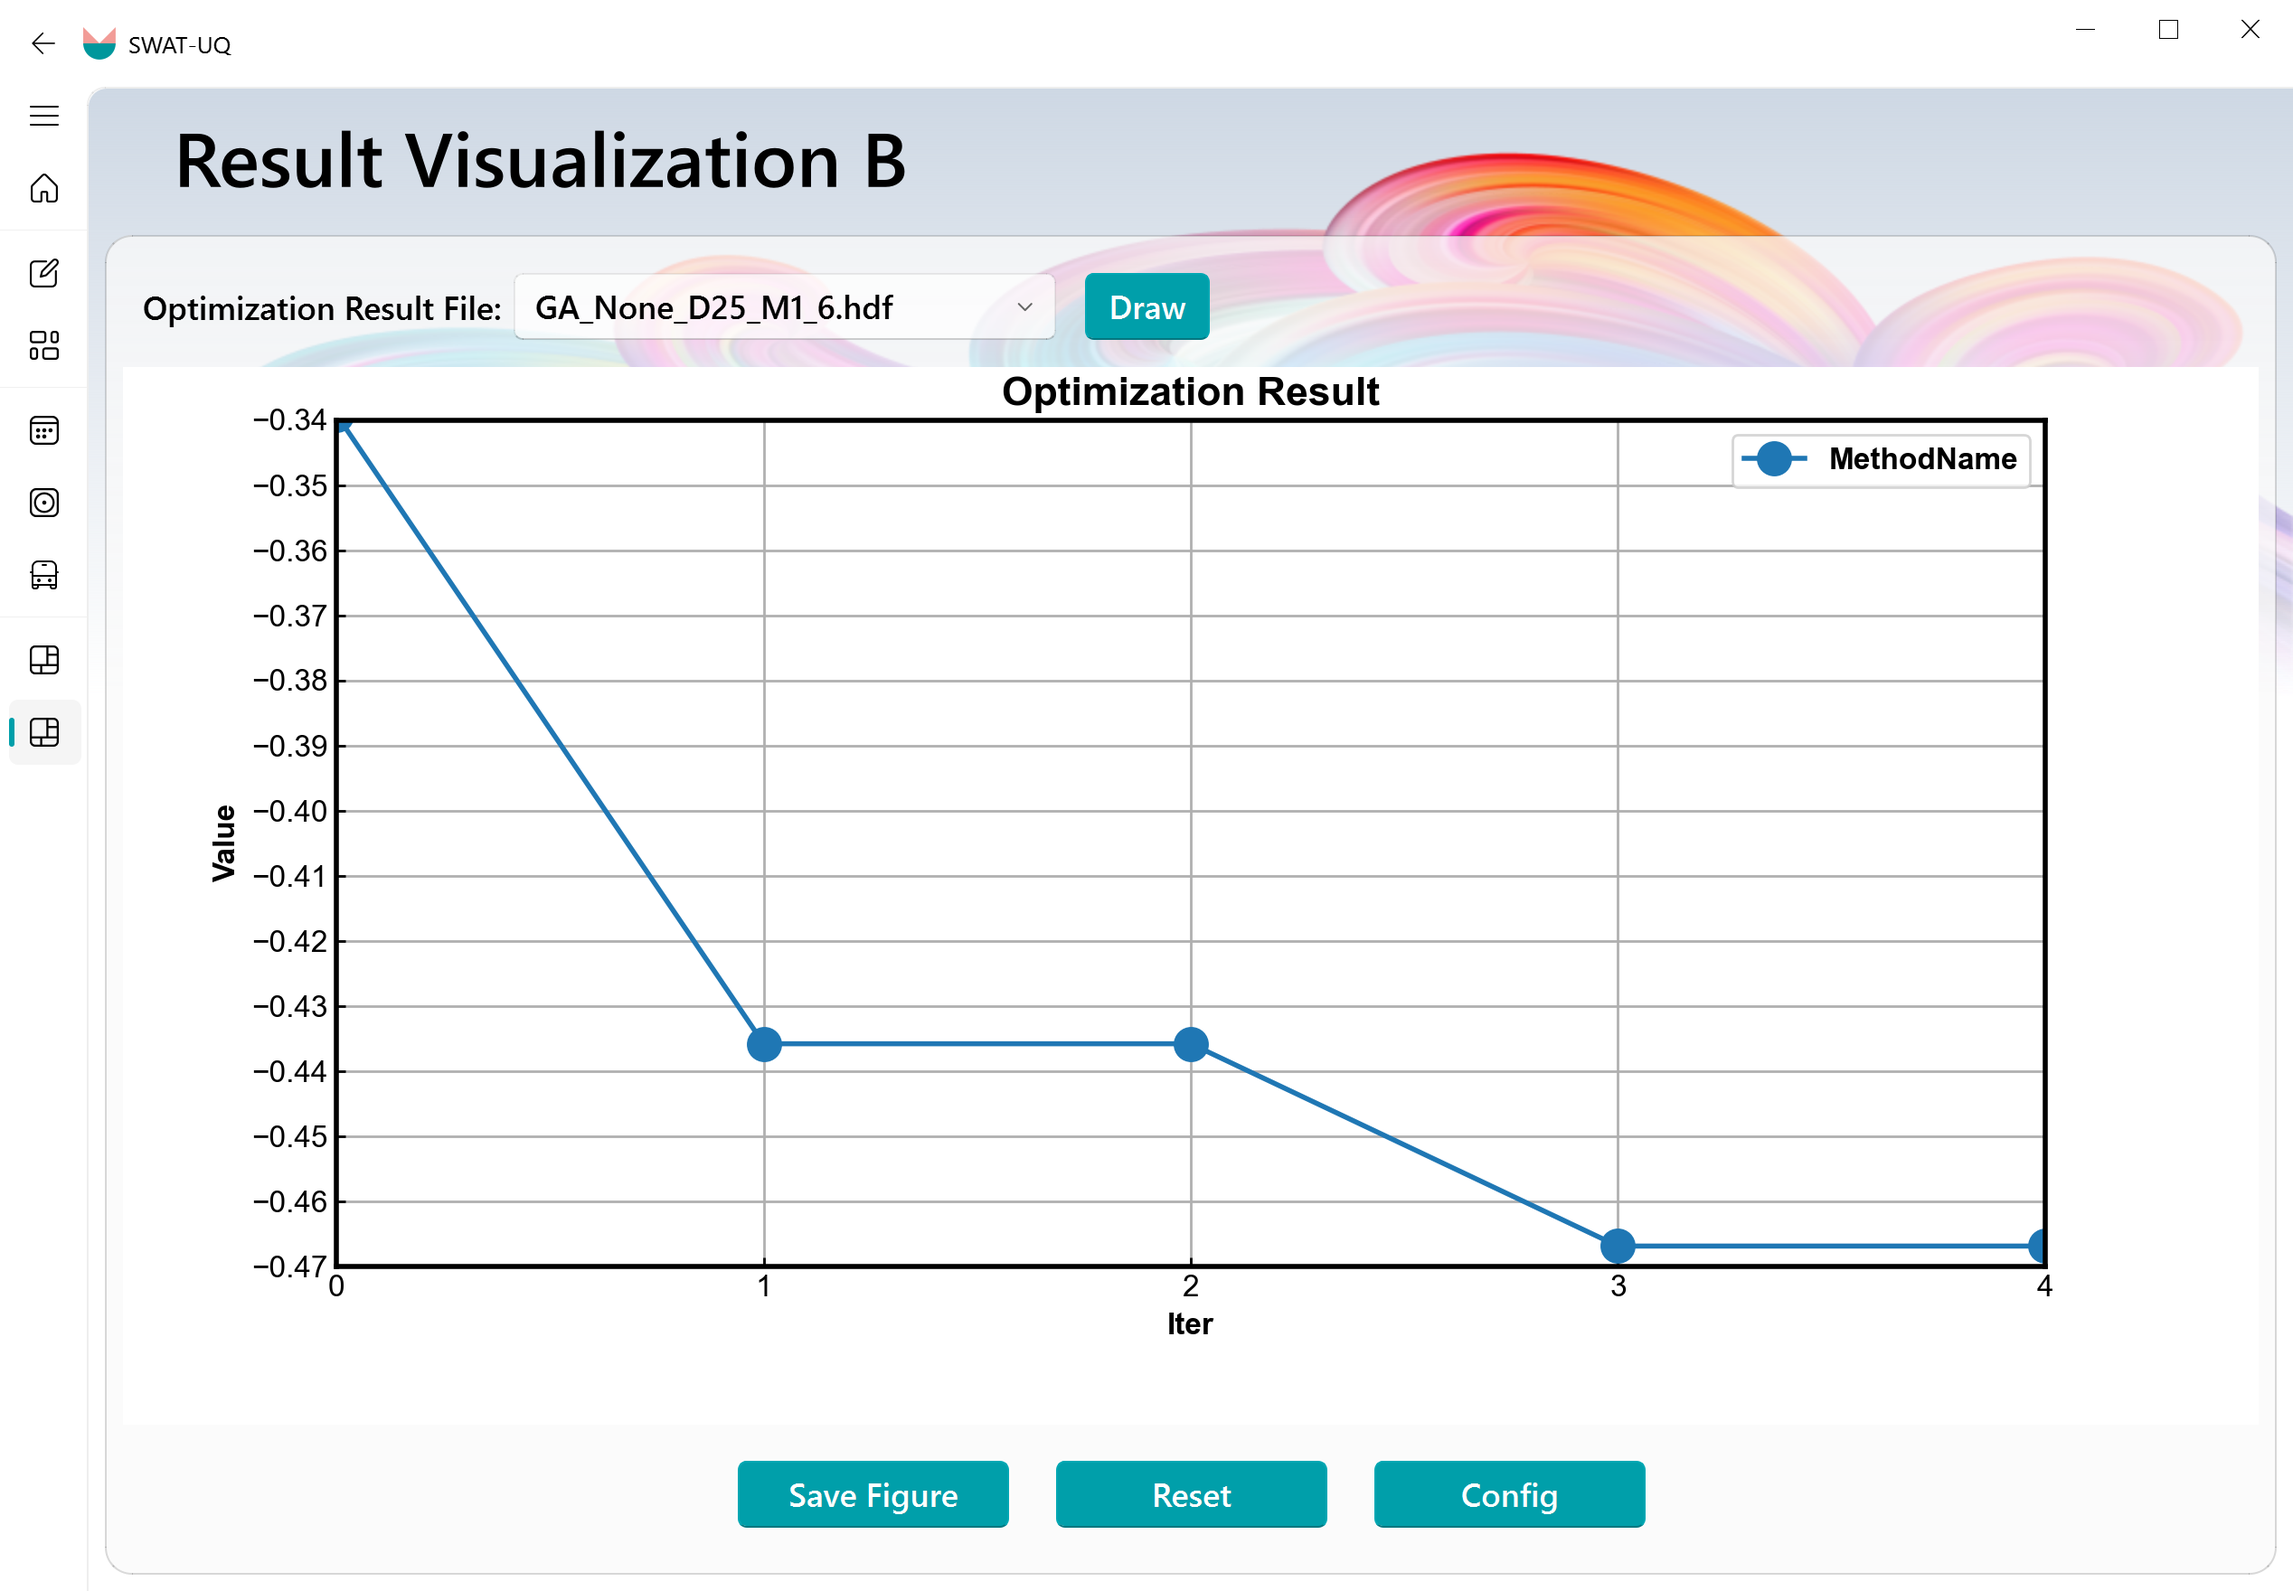
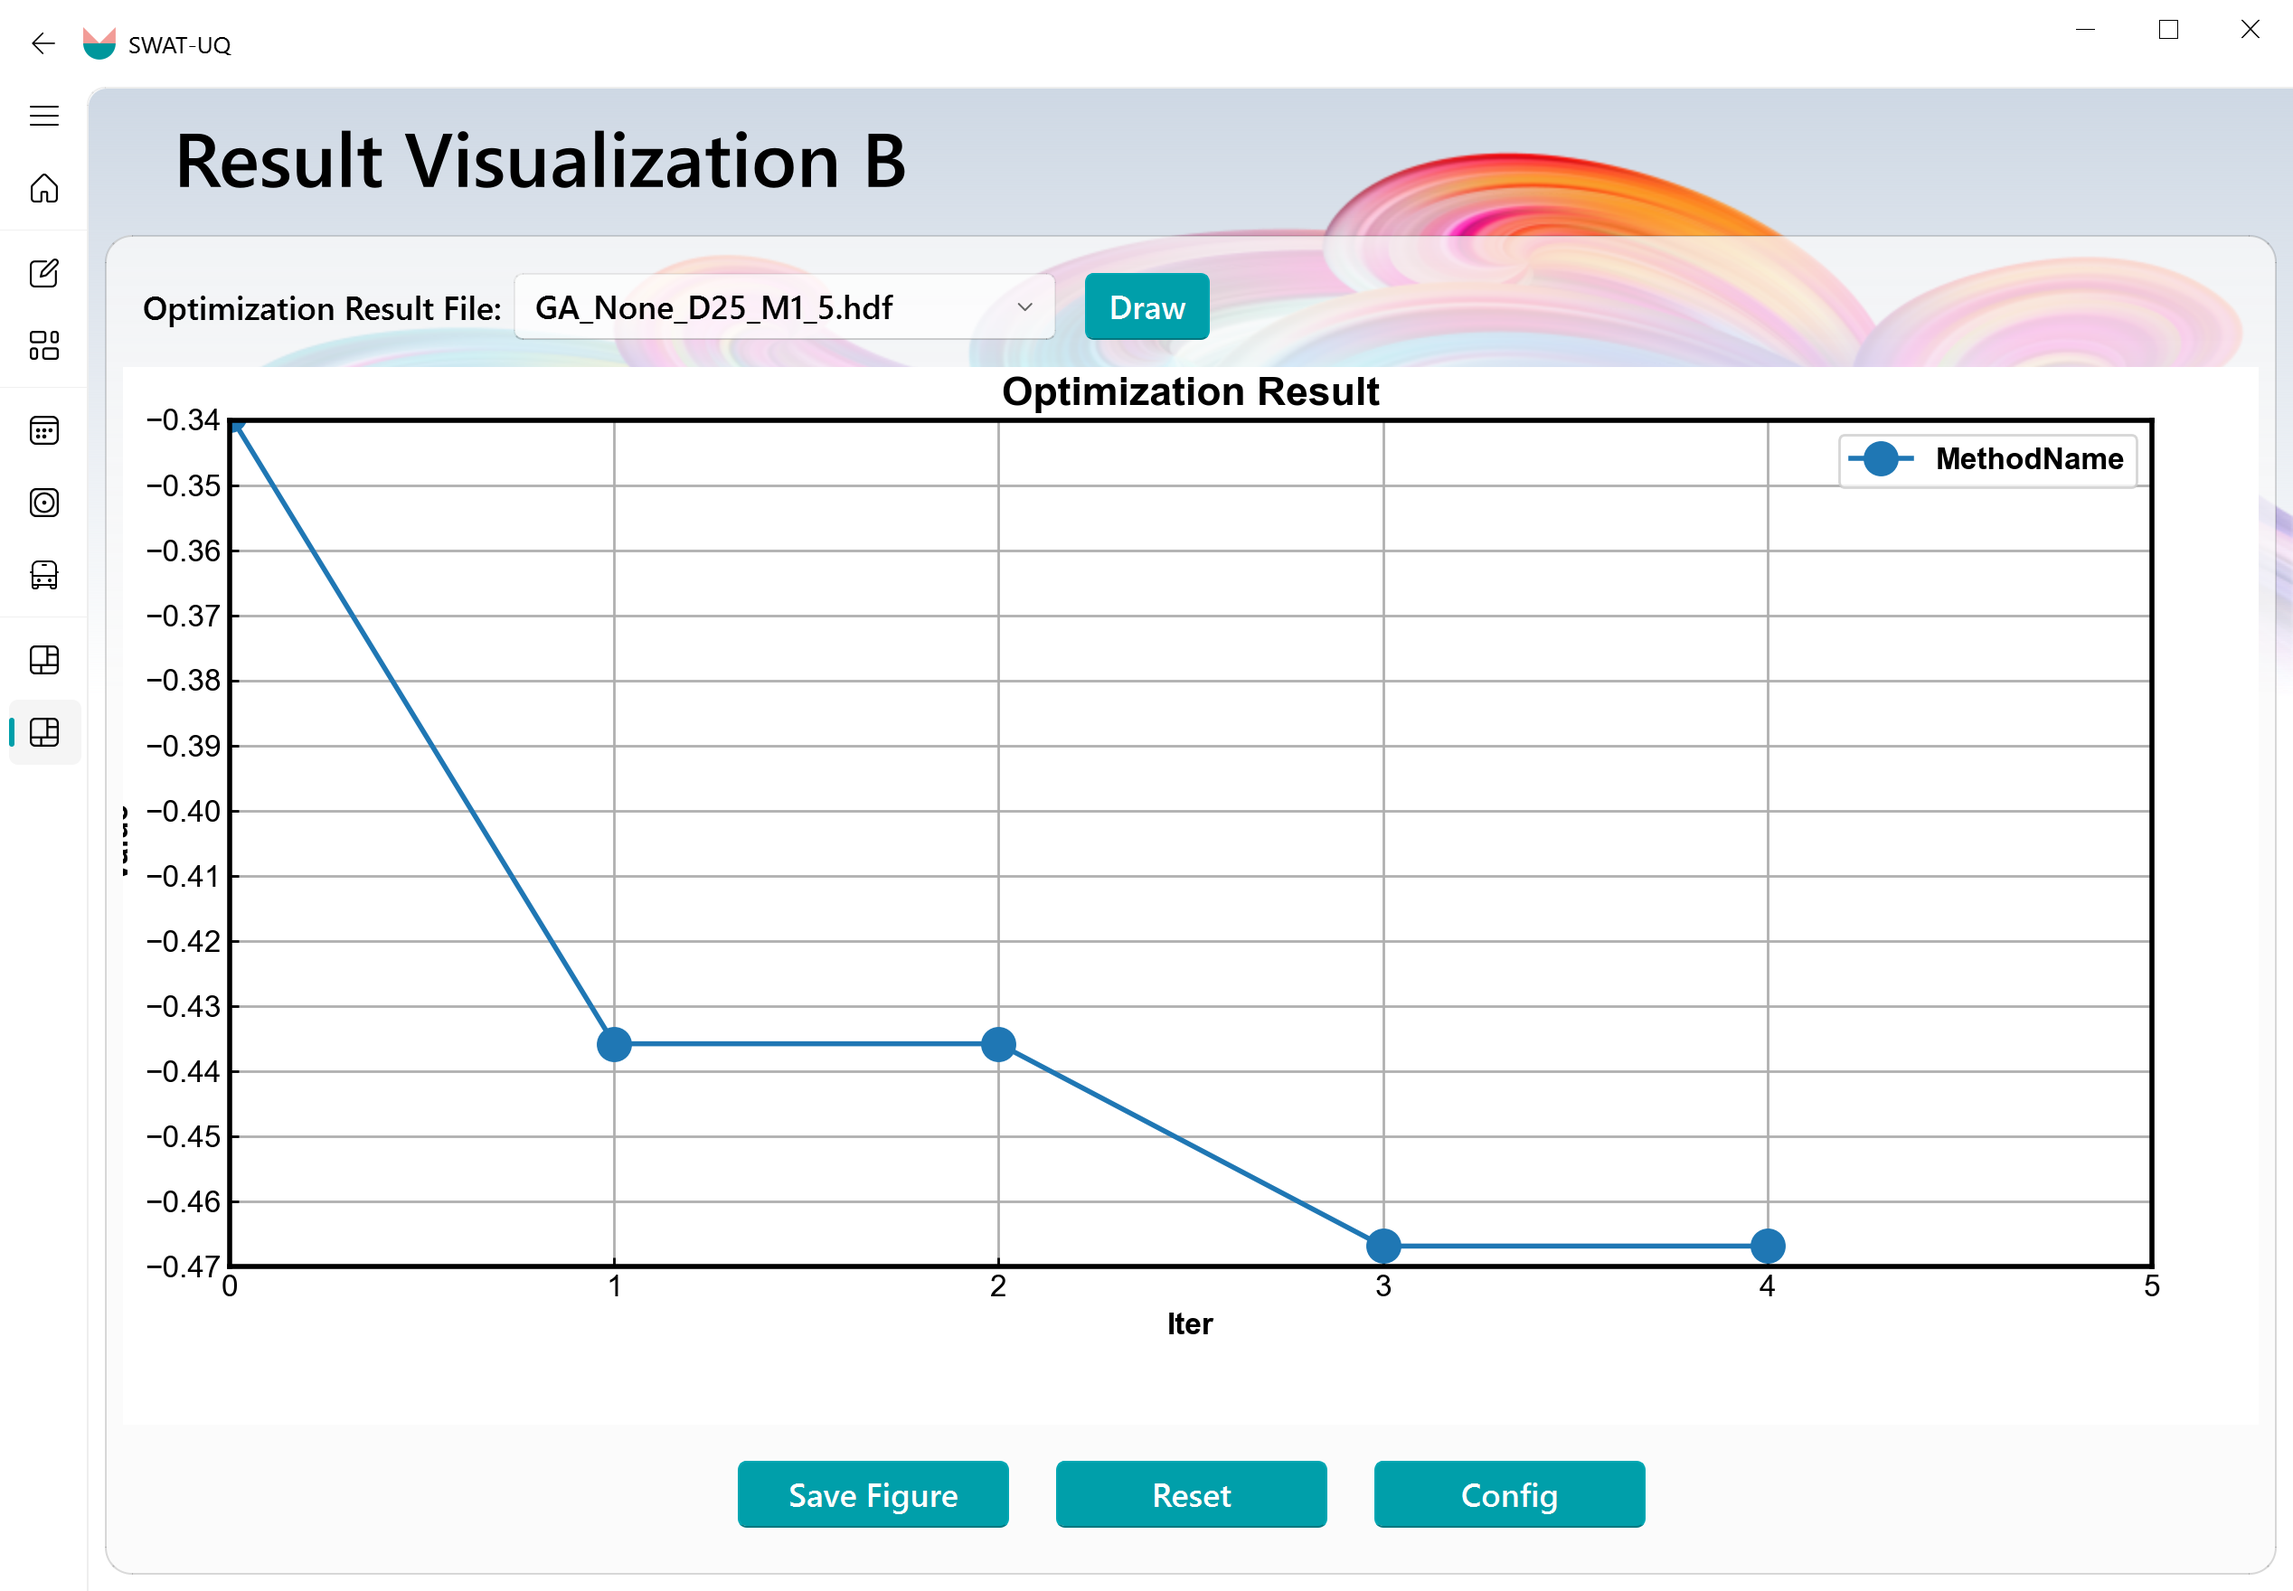
'1029'

diff --git a/README.md b/README.md
@@ -97,3 +97,9 @@ Here, we list the available sensibility analysis method and optimization method.
 <p align="center"><img src="./resource/GA.png" alt="OP_Result" width="600"/></p>
 
 <p align="center"><strong> Figure 10. Optimization Visualization </strong></p>
+
+Specifically, On the Visualization A and Visualization B, user can select the result file. SWAT-UQ would generates initial visualizations. **Users can click the “Config” button to open the settings panel and tune various parameters of the plot based on the preset values, as Figure 11 indicates.**
+
+<p align="center"><img src="./resource/Visualization_A.png" alt="Visualization_A" width="400"/> <img src="./resource/Visualization_B.png" alt="Visualization_B" width="400"/></p>
+
+<p align="center"><strong> Figure 11. Visualization Interface </strong></p>
